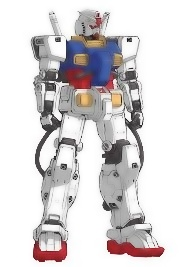
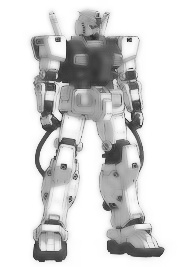
adding threshold

diff --git a/threshold.py b/threshold.py
@@ -1,0 +1,81 @@
+import cv2
+from image_utils import display_image, save_image
+from convert_color import convert_image_color_to_grayscale
+from blurring import bilateral_blur
+
+def apply_threshold(image):
+    try:
+        if image is not None:
+            # Convert to grayscale
+            gray = convert_image_color_to_grayscale(image)
+            # Apply binary threshold
+            _, thresh = cv2.threshold(gray, 127, 255, cv2.THRESH_BINARY)
+            print(f"Threshold shape: {thresh.shape}")
+            display_image(thresh)
+            save_image('save/threshold.jpg', thresh)
+        else:
+            print("Failed to load image for thresholding.")
+    except Exception as e:
+        print(f"Error occurred during thresholding: {e}")
+
+def apply_threshold_inverse(image):
+    try:
+        if image is not None:
+            # Convert to grayscale
+            gray = convert_image_color_to_grayscale(image)
+            # Apply binary threshold
+            _, thresh = cv2.threshold(gray, 127, 255, cv2.THRESH_BINARY_INV)
+            print(f"Threshold shape: {thresh.shape}")
+            display_image(thresh)
+            save_image('save/threshold_inverse.jpg', thresh)
+        else:
+            print("Failed to load image for thresholding.")
+    except Exception as e:
+        print(f"Error occurred during thresholding: {e}")
+
+def apply_threshold_otsu(image):
+    try:
+        if image is not None:
+            # Convert to grayscale
+            gray = convert_image_color_to_grayscale(image)
+            # Apply Otsu's thresholding
+            _, thresh = cv2.threshold(gray, 0, 255, cv2.THRESH_BINARY + cv2.THRESH_OTSU)
+            print(f"Threshold shape: {thresh.shape}")
+            display_image(thresh)
+            save_image('save/threshold_otsu.jpg', thresh)
+        else:
+            print("Failed to load image for thresholding.")
+    except Exception as e:
+        print(f"Error occurred during thresholding: {e}")
+
+def apply_threshold_adaptive(image):
+    try:
+        if image is not None:
+            # Convert to grayscale
+            gray = convert_image_color_to_grayscale(image)
+            # Apply adaptive thresholding
+            thresh = cv2.adaptiveThreshold(gray, 255, cv2.ADAPTIVE_THRESH_GAUSSIAN_C, cv2.THRESH_BINARY, 11, 2)
+            print(f"Threshold shape: {thresh.shape}")
+            display_image(thresh)
+            save_image('save/threshold_adaptive.jpg', thresh)
+        else:
+            print("Failed to load image for thresholding.")
+    except Exception as e:
+        print(f"Error occurred during thresholding: {e}")
+
+def proper_thresholding(image):
+    try:
+        if image is not None:
+            # Convert to grayscale
+            gray = convert_image_color_to_grayscale(image)
+            # clean the noise
+            clean = bilateral_blur(gray, 9, 75, 75)
+            # Apply adaptive thresholding
+            thresh = cv2.adaptiveThreshold(clean, 255, cv2.ADAPTIVE_THRESH_GAUSSIAN_C, cv2.THRESH_BINARY, 11, 2)
+            print(f"Threshold shape: {thresh.shape}")
+            display_image(thresh)
+            save_image('save/threshold_proper.jpg', thresh)
+        else:
+            print("Failed to load image for thresholding.")
+    except Exception as e:
+        print(f"Error occurred during thresholding: {e}")

diff --git a/main.py b/main.py
@@ -3,6 +3,7 @@ from image_utils import display_image, save_image
 from convert_color import convert_image_color_to_grayscale, convert_image_color_to_rgb, convert_image_color_to_hsv
 from image_edit import crop_image, resize_image
 from blurring import gaussian_blur, median_blur, bilateral_blur, average_blur
+from threshold import apply_threshold, apply_threshold_inverse, apply_threshold_otsu, apply_threshold_adaptive, proper_thresholding
 
 gambar = 'images.jpg'
 img = cv2.imread(gambar)
@@ -58,12 +59,37 @@ if img is not None:
     cv2.waitKey(10000)"""
 
     #bilateral blurring
-    diameter = int(input("Enter diameter for bilateral blurring: "))
+    """diameter = int(input("Enter diameter for bilateral blurring: "))
     sigma_color = int(input("Enter sigma color for bilateral blurring: "))
     sigma_space = int(input("Enter sigma space for bilateral blurring: "))
     bilateral_blur(img, diameter, sigma_color, sigma_space)
+    cv2.waitKey(10000)"""
+
+    #thresholding simple for scanning documents
+    """print("Displaying thresholded image...")
+    apply_threshold(img)
+    cv2.waitKey(10000)"""
+
+    #thresholding inverse
+    """print("Displaying thresholded inverse image...")
+    apply_threshold_inverse(img)
+    cv2.waitKey(10000)"""
+
+    #thresholding otsu (automatic thresholding)
+    """print("Displaying thresholded otsu image...")
+    apply_threshold_otsu(img)
+    cv2.waitKey(10000)"""
+
+    #thresholding adaptive
+    """print("Displaying thresholded adaptive image...")
+    apply_threshold_adaptive(img)
+    cv2.waitKey(10000)"""
+
+    #proper thresholding for scanning documents
+    print("Displaying proper thresholding image...")
+    proper_thresholding(img)
     cv2.waitKey(10000)
-    
+
     cv2.destroyAllWindows()
 else:
     print("Failed to load image.")

diff --git a/convert_color.py b/convert_color.py
@@ -7,6 +7,7 @@ def convert_image_color_to_grayscale(image):
         print(f"Grayscale shape: {gray.shape}")
         display_image(gray)
         save_image('save/grayscale.jpg', gray)
+        return gray 
     else:
         print("Failed to load image for grayscale conversion.")
         return None
